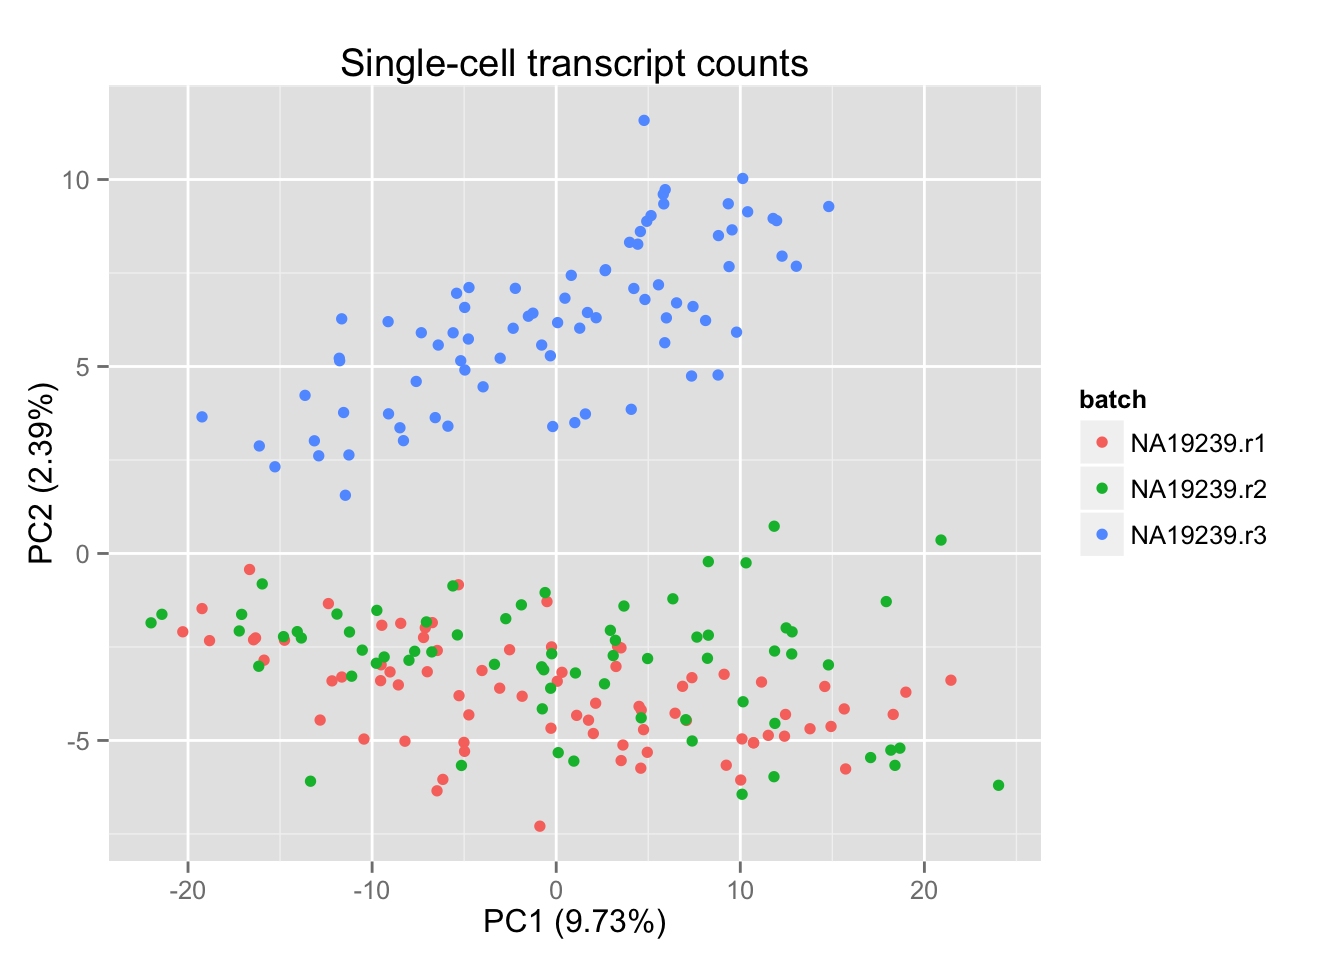
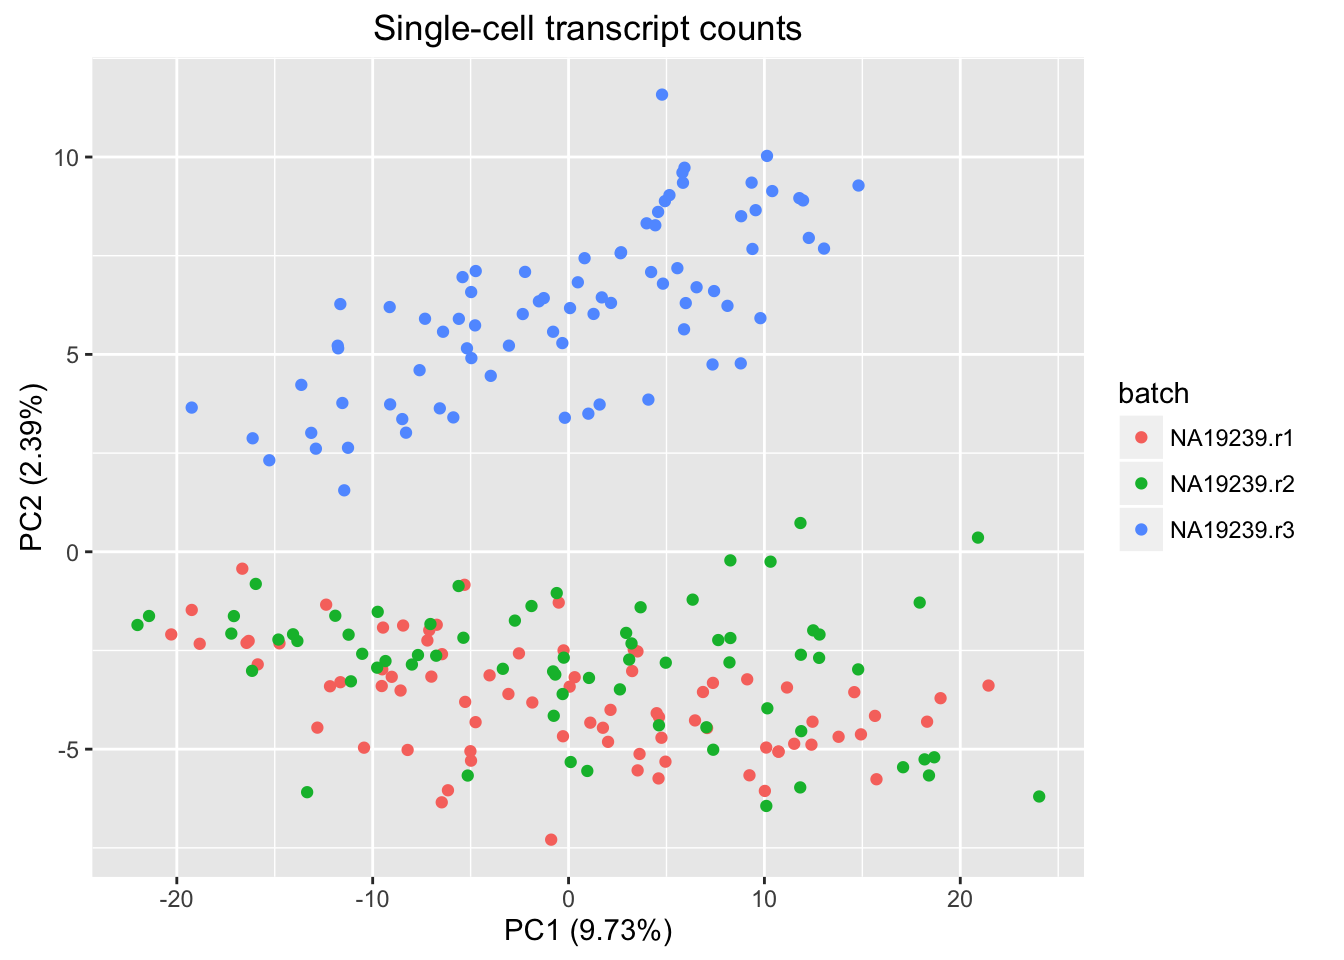
remove testit dependency

diff --git a/analysis/single-cell-pca.html b/analysis/single-cell-pca.html
@@ -133,8 +133,8 @@ img {
 </ul>
 </div>
 
-<p><strong>Last updated:</strong> 2015-12-22</p>
-<p><strong>Code version:</strong> 36daa5f2b1bc316acdaa4943f14a2b37c37239a6</p>
+<p><strong>Last updated:</strong> 2016-01-14</p>
+<p><strong>Code version:</strong> c5c5916d4bcc398f740fdfa1b2877b3128088479</p>
 <div id="objectives" class="section level2">
 <h2>Objectives</h2>
 <p>I imported a subset of the <a href="http://jdblischak.github.io/singleCellSeq/analysis">singleCellSeq</a> data and performed a principal component analysis to explore visually the similarity between batches in transcriptional expression profile. The data set includes 225 induced pluripotent stem cells (iPSCs) derived from a Yoruba cell line (NA19239) and a subsample of 1,000 genes). The cells were collected from the same cell culture and processed in three different batches.</p>
@@ -175,6 +175,7 @@ head(annotation_filter_subsample)</code></pre>
          metadata = annotation_filter_subsample,
          color = &quot;batch&quot;) +
   labs(title = &quot;Single-cell transcript counts&quot;)</code></pre>
+<pre><code>Warning: package &#39;ggplot2&#39; was built under R version 3.2.3</code></pre>
 <p><img src="figure/single-cell-pca.Rmd/unnamed-chunk-5-1.png" title="" alt="" width="672" style="display: block; margin: auto;" /></p>
 </div>
 <div id="session-information" class="section level2">
@@ -191,15 +192,14 @@ attached base packages:
 [1] stats     graphics  grDevices utils     datasets  methods   base     
 
 other attached packages:
-[1] ggplot2_1.0.1 testit_0.4    knitr_1.11   
+[1] ggplot2_2.0.0 knitr_1.11   
 
 loaded via a namespace (and not attached):
- [1] Rcpp_0.12.2      digest_0.6.8     MASS_7.3-45      grid_3.2.1      
- [5] plyr_1.8.3       gtable_0.1.2     formatR_1.2.1    magrittr_1.5    
- [9] scales_0.3.0     evaluate_0.8     stringi_1.0-1    reshape2_1.4.1  
-[13] rmarkdown_0.8.1  labeling_0.3     proto_0.3-10     tools_3.2.1     
-[17] stringr_1.0.0    munsell_0.4.2    yaml_2.1.13      colorspace_1.2-6
-[21] htmltools_0.2.6 </code></pre>
+ [1] Rcpp_0.12.2      digest_0.6.8     plyr_1.8.3       grid_3.2.1      
+ [5] gtable_0.1.2     formatR_1.2.1    magrittr_1.5     evaluate_0.8    
+ [9] scales_0.3.0     stringi_1.0-1    rmarkdown_0.9.2  labeling_0.3    
+[13] tools_3.2.1      stringr_1.0.0    munsell_0.4.2    yaml_2.1.13     
+[17] colorspace_1.2-6 htmltools_0.3   </code></pre>
 </div>
 
 

diff --git a/analysis/template.html b/analysis/template.html
@@ -130,8 +130,8 @@ img {
 </ul>
 </div>
 
-<p><strong>Last updated:</strong> 2015-12-22</p>
-<p><strong>Code version:</strong> 36daa5f2b1bc316acdaa4943f14a2b37c37239a6</p>
+<p><strong>Last updated:</strong> 2016-01-14</p>
+<p><strong>Code version:</strong> c5c5916d4bcc398f740fdfa1b2877b3128088479</p>
 <p>This is a template for writing reports with R Markdown.</p>
 <div id="section-title" class="section level2">
 <h2>Section title</h2>
@@ -155,8 +155,8 @@ other attached packages:
 [1] knitr_1.11
 
 loaded via a namespace (and not attached):
- [1] magrittr_1.5    formatR_1.2.1   tools_3.2.1     htmltools_0.2.6
- [5] yaml_2.1.13     stringi_1.0-1   rmarkdown_0.8.1 stringr_1.0.0  
+ [1] magrittr_1.5    formatR_1.2.1   tools_3.2.1     htmltools_0.3  
+ [5] yaml_2.1.13     stringi_1.0-1   rmarkdown_0.9.2 stringr_1.0.0  
  [9] digest_0.6.8    evaluate_0.8   </code></pre>
 </div>
 

diff --git a/analysis/plan.html b/analysis/plan.html
@@ -125,8 +125,8 @@ img {
 </div>
 
 
-<p><strong>Last updated:</strong> 2015-12-22</p>
-<p><strong>Code version:</strong> 36daa5f2b1bc316acdaa4943f14a2b37c37239a6</p>
+<p><strong>Last updated:</strong> 2016-01-14</p>
+<p><strong>Code version:</strong> c5c5916d4bcc398f740fdfa1b2877b3128088479</p>
 <p>Here’s an example workflow for collaborating on GitHub.</p>
 <p>You can find some <a href="../docs/repo-setup-tutorial-stephens-lab-2015-12-03.pdf">tips</a> in this presentation I gave on 12/3 at the <a href="http://stephenslab.uchicago.edu/">Stephens Lab</a> meeting.</p>
 

diff --git a/analysis/license.html b/analysis/license.html
@@ -127,8 +127,8 @@ img {
 </ul>
 </div>
 
-<p><strong>Last updated:</strong> 2015-12-22</p>
-<p><strong>Code version:</strong> 36daa5f2b1bc316acdaa4943f14a2b37c37239a6</p>
+<p><strong>Last updated:</strong> 2016-01-14</p>
+<p><strong>Code version:</strong> c5c5916d4bcc398f740fdfa1b2877b3128088479</p>
 <div id="code" class="section level2">
 <h2>Code</h2>
 <p>The code is licensed under the <a href="https://www.gnu.org/licenses/gpl-3.0.txt">GPLv3</a>. We use multiple <a href="https://www.bioconductor.org/about">Bioconductor</a> packages which are GPL’d.</p>

diff --git a/analysis/about.html b/analysis/about.html
@@ -121,8 +121,8 @@ img {
 </div>
 
 
-<p><strong>Last updated:</strong> 2015-12-22</p>
-<p><strong>Code version:</strong> 36daa5f2b1bc316acdaa4943f14a2b37c37239a6</p>
+<p><strong>Last updated:</strong> 2016-01-14</p>
+<p><strong>Code version:</strong> c5c5916d4bcc398f740fdfa1b2877b3128088479</p>
 <p><a href="http://jhsiao999.github.io/">Joyce Hsiao</a> is a postdoctoral fellow in the Department of Human Genetics at the University of Chicago.</p>
 
 

diff --git a/analysis/tutorial.html b/analysis/tutorial.html
@@ -133,8 +133,8 @@ img {
 </ul>
 </div>
 
-<p><strong>Last updated:</strong> 2015-12-22</p>
-<p><strong>Code version:</strong> 36daa5f2b1bc316acdaa4943f14a2b37c37239a6</p>
+<p><strong>Last updated:</strong> 2016-01-14</p>
+<p><strong>Code version:</strong> c5c5916d4bcc398f740fdfa1b2877b3128088479</p>
 <hr />
 <div id="objectives" class="section level3">
 <h3>Objectives</h3>

diff --git a/analysis/index.html b/analysis/index.html
@@ -127,8 +127,8 @@ img {
 </ul>
 </div>
 
-<p><strong>Last updated:</strong> 2015-12-22</p>
-<p><strong>Code version:</strong> 36daa5f2b1bc316acdaa4943f14a2b37c37239a6</p>
+<p><strong>Last updated:</strong> 2016-01-14</p>
+<p><strong>Code version:</strong> c5c5916d4bcc398f740fdfa1b2877b3128088479</p>
 <div id="tutorials" class="section level2">
 <h2>Tutorials</h2>
 <ul>
